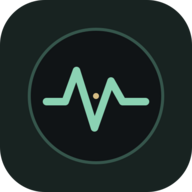
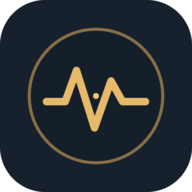
Update assets and add component styles to absent note converter
Replit-Commit-Author: Agent

Changed region(s): [[0.125, 0.125, 0.875, 0.875], [0.2188, 0.3438, 0.7812, 0.6875]]

diff --git a/artifacts/absent-note-converter/src/index.css b/artifacts/absent-note-converter/src/index.css
@@ -239,3 +239,142 @@ h1 { font:600 clamp(24px,3vw,32px) 'Avenir Next', 'Segoe UI', sans-serif; letter
   .calibration-input-grid { grid-template-columns:repeat(2,minmax(0,1fr)); }
   .help-grid { grid-template-columns:1fr; }
 }
+
+/* Warm Amber theme, adapted from the approved theme preview. */
+.warm-amber-frame {
+  --background: 214 25% 10%;
+  --foreground: 40 18% 93%;
+  --border: 212 18% 31%;
+  --input: 212 20% 36%;
+  --ring: 40 82% 69%;
+  --primary: 39 73% 66%;
+  --primary-foreground: 213 24% 19%;
+  --secondary: 213 22% 20%;
+  --secondary-foreground: 40 14% 91%;
+  --muted: 213 22% 18%;
+  --muted-foreground: 210 13% 69%;
+  --accent: 35 20% 22%;
+  --accent-foreground: 40 19% 93%;
+  --card: 212 23% 18%;
+  --card-foreground: 40 18% 93%;
+  --popover: 212 23% 18%;
+  --popover-foreground: 40 18% 93%;
+  --chart-1: 39 73% 66%;
+  --chart-2: 202 30% 64%;
+  --chart-3: 26 53% 55%;
+  --chart-4: 285 25% 68%;
+  --chart-5: 8 48% 62%;
+  min-height: 100dvh;
+  color: #f0eee8;
+  color-scheme: dark;
+  background:
+    radial-gradient(ellipse at 18% 0%, rgba(137, 163, 184, .11), transparent 44%),
+    radial-gradient(ellipse at 88% 18%, rgba(224, 174, 94, .055), transparent 38%),
+    repeating-linear-gradient(155deg, rgba(210, 223, 229, .018) 0 1px, transparent 1px 8px),
+    linear-gradient(145deg, #1b2734 0%, #17212d 48%, #141e29 100%);
+}
+.warm-amber-frame ::selection { background: #e7b96b; color: #202b35; }
+.warm-amber-frame .studio {
+  color: #f0eee8;
+  background:
+    radial-gradient(ellipse at 52% -18%, rgba(130, 156, 176, .10), transparent 40%),
+    repeating-linear-gradient(155deg, rgba(210, 223, 229, .012) 0 1px, transparent 1px 9px),
+    linear-gradient(145deg, #1b2734 0%, #17212d 55%, #141e29 100%);
+}
+.warm-amber-frame .topbar { background: rgba(20, 30, 41, .94); border-color: #314151; }
+.warm-amber-frame .brand-mark { color: #292f35; background: #e7b96b; }
+.warm-amber-frame .brand-name, .warm-amber-frame h1 { color: #f4f1e9; }
+.warm-amber-frame .brand-sub { color: #a3adb3; }
+.warm-amber-frame .top-meta { color: #a5b0b8; }
+.warm-amber-frame .offline-pill { color: #dfc58f; border-color: #6c5a3c; background: #302c25; }
+.warm-amber-frame .offline-pill i, .warm-amber-frame .status-line.ready::before { background: #e7b96b; }
+.warm-amber-frame .top-action { color: #d0d2cf; }
+.warm-amber-frame .eyebrow { color: #e5bb72; }
+.warm-amber-frame .subtitle { color: #bbc2c5; }
+.warm-amber-frame .btn { color: #e1e2dd; background: #263340; border-color: #526172; }
+.warm-amber-frame .btn:hover { background: #314150; border-color: #718091; }
+.warm-amber-frame .btn-primary { color: #26303a; background: #e7b96b; border-color: #f0c879; }
+.warm-amber-frame .btn-primary:hover { color: #202b35; background: #f0c879; border-color: #f6d38b; }
+.warm-amber-frame :is(button, select, input):focus-visible { outline: 2px solid #f0c879; outline-offset: 2px; }
+.warm-amber-frame .panel { background: rgba(32, 44, 57, .96); border-color: #3b4b5b; box-shadow: 0 9px 24px rgba(4, 10, 16, .12); }
+.warm-amber-frame .panel-head { border-color: #314151; }
+.warm-amber-frame .panel-title { color: #ebe9e2; }
+.warm-amber-frame .panel-title svg { color: #c3ad83; }
+.warm-amber-frame .section-number { color: #d1ad68; }
+.warm-amber-frame .panel-kicker, .warm-amber-frame .status-line { color: #b0bac0; }
+.warm-amber-frame .status-line::before { background: #82909a; }
+.warm-amber-frame .upload-zone { color: #d1d2ce; background: #151f2a; border-color: #617080; }
+.warm-amber-frame .upload-zone:hover { border-color: #e7b96b; background: #202a34; }
+.warm-amber-frame .upload-icon { color: #e7b96b; background: #302c25; border-color: #62533b; }
+.warm-amber-frame .upload-zone strong, .warm-amber-frame .track-name { color: #ecebe5; }
+.warm-amber-frame .upload-zone p, .warm-amber-frame .track-sub { color: #a4afb6; }
+.warm-amber-frame .file-icon { color: #e7b96b; background: #302c25; }
+.warm-amber-frame .file-info strong { color: #ecebe5; }
+.warm-amber-frame .file-info span, .warm-amber-frame .mini-chip { color: #b5bdc0; }
+.warm-amber-frame .mini-chip { border-color: #526172; }
+.warm-amber-frame .file-meta, .warm-amber-frame .track-row { background: #151f2a; border-color: #314151; }
+.warm-amber-frame .meta-cell { border-color: #314151; }
+.warm-amber-frame .meta-label, .warm-amber-frame .track-stat em { color: #a1adb5; }
+.warm-amber-frame .meta-value, .warm-amber-frame .track-stat { color: #d9ddd9; }
+.warm-amber-frame .track-row.selected { background: #292e2d; border-color: #8a7048; }
+.warm-amber-frame .track-select, .warm-amber-frame input[type=checkbox], .warm-amber-frame .range-row input[type=range] { accent-color: #e7b96b; }
+.warm-amber-frame .select, .warm-amber-frame .text-input { color: #f0eee8; background: #151f29; border-color: #536273; }
+.warm-amber-frame .select:focus, .warm-amber-frame .text-input:focus { border-color: #e7b96b; }
+.warm-amber-frame .control-label { color: #e1e1dc; }
+.warm-amber-frame .control-label span:last-child { color: #e9c47e; }
+.warm-amber-frame .hint { color: #aeb8bd; }
+.warm-amber-frame .formula { background: #19242b; border-color: #4e5147; color: #d2d1c7; }
+.warm-amber-frame .formula strong { color: #f0c879; }
+.warm-amber-frame .formula-table { background: #17222b; border-color: #455361; }
+.warm-amber-frame .formula-row { color: #e0e1da; border-color: #34424d; }
+.warm-amber-frame .formula-header { color: #b1b9b9; }
+.warm-amber-frame .harmonic.active { color: #26303a; background: #e7b96b; border-color: #e7b96b; }
+.warm-amber-frame .segmented { background: #17222b; border-color: #455361; }
+.warm-amber-frame .segment { color: #aeb8bd; }
+.warm-amber-frame .segment.active { color: #f3d99f; background: #3a3429; box-shadow: inset 0 0 0 1px #806c49; }
+.warm-amber-frame .setting-copy { color: #e1e1dc; }
+.warm-amber-frame .setting-copy small { color: #aab4b9; }
+.warm-amber-frame .toggle { background: #34414c; border-color: #65727b; }
+.warm-amber-frame .toggle::after { background: #d3d8d7; }
+.warm-amber-frame .toggle.on { background: #80673e; border-color: #b18a4d; }
+.warm-amber-frame .toggle.on::after { background: #fff0c8; }
+.warm-amber-frame .play-button { color: #26303a; background: #e7b96b; border-color: #e7b96b; }
+.warm-amber-frame .transport-time { color: #d0d5d4; }
+.warm-amber-frame .tool-button { color: #c3cbce; background: #263340; border-color: #526172; }
+.warm-amber-frame .tool-button.active { color: #f2d394; background: #383328; border-color: #8b7146; }
+.warm-amber-frame .visual-caption { color: #b1bbc0; }
+.warm-amber-frame .piano-wrap { background: #17212a; border-color: #53616d; }
+.warm-amber-frame .piano-roll rect { fill: #17212a; }
+.warm-amber-frame .piano-roll text { fill: #a6b1b7; }
+.warm-amber-frame .note-legend { color: #b9c2c5; }
+.warm-amber-frame .legend-dot { background: #e7b96b; }
+.warm-amber-frame .legend-dot.out { background: #91b3c7; }
+.warm-amber-frame .spectrum { background: linear-gradient(180deg, #202d38, #18232d); border-color: #52616e; }
+.warm-amber-frame .spectrum-bar { background: linear-gradient(0deg, #a77b3f, #ecc677); }
+.warm-amber-frame .spectrum-labels { color: #aeb9bf; }
+.warm-amber-frame .warn-box { color: #f0d8a5; background: #302b25; border-color: #786347; }
+.warm-amber-frame .calibration { background: #151f2a; border-color: #3b4b5b; }
+.warm-amber-frame .cal-title { color: #eeece5; }
+.warm-amber-frame .cal-desc { color: #b2bdc1; }
+.warm-amber-frame .profile-row { border-color: #314151; }
+.warm-amber-frame .profile-name { color: #c4c9c8; }
+.warm-amber-frame .profile-actions button { color: #e1e2dd; background: #263340; border-color: #526172; }
+.warm-amber-frame .export-summary { color: #bac3c6; }
+.warm-amber-frame .export-summary strong { color: #ecebe5; }
+.warm-amber-frame .export-note { color: #a1adb4; }
+.warm-amber-frame .footer-line, .warm-amber-frame .footer-links button { color: #9ca9b1; }
+.warm-amber-frame .help-panel { background: rgba(32, 44, 57, .96); border-color: #3b4b5b; }
+.warm-amber-frame .help-panel h2 { color: #eeece5; }
+.warm-amber-frame .help-grid p { color: #b2bdc1; }
+.warm-amber-frame .toast-note { color: #f0eee8; background: #263340; border-color: #8a7048; }
+.warm-amber-frame .event-inspector { border-color: #455361; }
+.warm-amber-frame .inspector-row { color: #d9ddd9; border-color: #34424d; }
+.warm-amber-frame .cal-results, .warm-amber-frame .allocator-controls, .warm-amber-frame .loop-controls { color: #d2d1c7; background: #17222b; border-color: #455361; }
+.warm-amber-frame .cal-result-row { color: #e0e1da; border-color: #34424d; }
+.warm-amber-frame .custom-weight-row { color: #d1d2ce; border-color: #34424d; }
+.warm-amber-frame .layer-chip { color: #e9d5a6; background: #292e2d; border-color: #806c49; }
+.warm-amber-frame .layer-chip.soloed { border-color: #e7b96b; box-shadow: 0 0 0 1px #e7b96b55; }
+.warm-amber-frame .warning-row { color: #f0d8a5; border-color: #786347; }
+@media (prefers-reduced-motion: reduce) {
+  .warm-amber-frame *, .warm-amber-frame *::before, .warm-amber-frame *::after { transition: none !important; }
+}

diff --git a/artifacts/absent-note-converter/src/App.tsx b/artifacts/absent-note-converter/src/App.tsx
@@ -589,6 +589,7 @@ function App() {
   };
 
   return (
+    <div className="warm-amber-frame">
     <div className="studio">
       <header className="topbar">
         <div className="brand">
@@ -936,6 +937,7 @@ function App() {
         </div>
       </main>
       {toast && <div className="toast-note" role="status" data-testid="status-toast"><Check size={13} style={{verticalAlign:'-2px', marginRight:7}} />{toast}<button type="button" onClick={() => setToast(null)} aria-label="Dismiss notification" style={{background:'none',border:0,color:'inherit',marginLeft:12,padding:0}}><X size={12} /></button></div>}
+    </div>
     </div>
   );
 }

diff --git a/artifacts/absent-note-converter/vite.config.ts b/artifacts/absent-note-converter/vite.config.ts
@@ -40,8 +40,8 @@ export default defineConfig({
         name: 'Absent Note Converter',
         short_name: 'Absent Note',
         description: 'Offline-first MIDI harmonic converter and piano calibration workstation.',
-        theme_color: '#182321',
-        background_color: '#101416',
+        theme_color: '#17212d',
+        background_color: '#17212d',
         display: 'standalone',
         start_url: basePath,
         scope: basePath,
